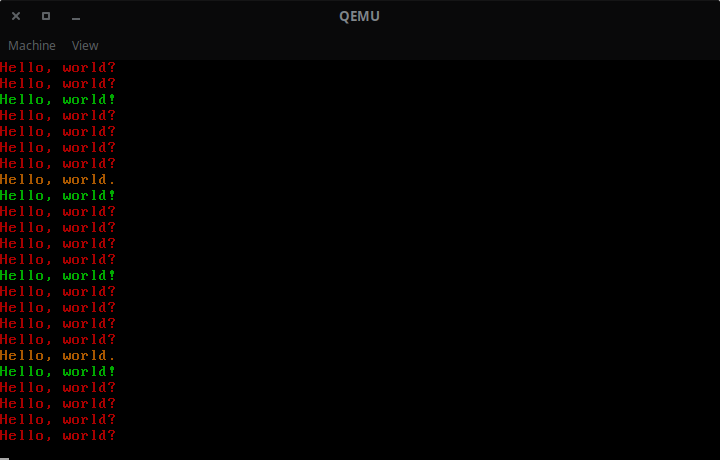
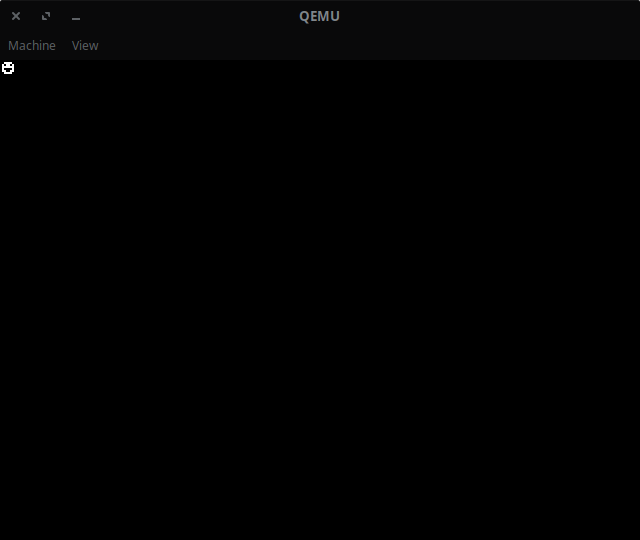
Framebuffer

Changed region(s): [[0.0, 0.0304, 0.1562, 0.9739], [0.4688, 0.0, 0.5312, 0.0609]]

diff --git a/kernel/driver/fb.c b/kernel/driver/fb.c
@@ -3,14 +3,23 @@
 #include <kernel/mm/paging.h>
 #include <kernel/driver/fb.h>
 
+static uint32_t bytes; /* bytes per pixel */
+
 void *fb_addr = NULL;
 uint32_t fb_width = 0;
 uint32_t fb_height = 0;
 uint32_t fb_pitch = 0;
 uint8_t fb_bpp = 0;
+fb_format_t fb_format = {};
+
+const fb_format_t FB_RGB = {
+	.r = {0, 0xff},
+	.g = {1, 0xff},
+	.b = {2, 0xff},
+};
 
 /* map framebuffer into memory */
-extern void fb_map(multiboot_saved_info_t *info) {
+extern void fb_map(multiboot_saved_info_t *info, fb_format_t format) {
 
 	if (!info->f_framebuf) return;
 
@@ -19,13 +28,15 @@ extern void fb_map(multiboot_saved_info_t *info) {
 	uint32_t poff = ((uint32_t)info->fb_addr) % 4096;
 
 	page_frame_use(fr);
-	page_id_t page = page_alloc(1, &fr);
+	page_id_t page = page_breakp++;
+	page_map(page, fr);
 
-	uint32_t frcnt = (poff + (info->fb_height * info->fb_pitch * 3)) / 4096 + 1;
+	bytes = (uint32_t)info->fb_bpp / 8;
+	uint32_t frcnt = (poff + (info->fb_height * info->fb_pitch * bytes)) / 4096 + 1;
 	for (uint32_t i = fr+1; i < fr+frcnt; i++) {
 
 		page_frame_use(i);
-		page_map(page+i, i);
+		page_map(page_breakp++, i);
 	}
 
 	/* set address */
@@ -34,4 +45,17 @@ extern void fb_map(multiboot_saved_info_t *info) {
 	fb_height = info->fb_height;
 	fb_pitch = info->fb_pitch;
 	fb_bpp = info->fb_bpp;
+	fb_format = format;
+}
+
+/* set pixel to color */
+extern void fb_set_pixel(uint32_t x, uint32_t y, fb_color_t color) {
+
+	if (x >= fb_width || y >= fb_height) return;
+
+	uint8_t *addr = (uint8_t *)(fb_addr + y * fb_pitch + x * bytes);
+
+	addr[fb_format.r.index] = color.r;
+	addr[fb_format.g.index] = color.g;
+	addr[fb_format.b.index] = color.b;
 }

diff --git a/kernel/multiboot.c b/kernel/multiboot.c
@@ -59,8 +59,19 @@ extern void multiboot_init(void) {
 				saved.fb_width = tag->width;
 				saved.fb_height = tag->height;
 				saved.fb_bpp = tag->bpp;
+				saved.fb_color = &tag->color;
 
-				fb_map(&saved);
+				/* create format and map framebuffer */
+				fb_format_t format;
+				format.r.index = (uint32_t)(tag->color.red.fpos/8);
+				format.g.index = (uint32_t)(tag->color.green.fpos/8);
+				format.b.index = (uint32_t)(tag->color.blue.fpos/8);
+
+				format.r.mask = 0xffffffff % (1 << (uint32_t)tag->color.red.masksz);
+				format.g.mask = 0xffffffff % (1 << (uint32_t)tag->color.green.masksz);
+				format.b.mask = 0xffffffff % (1 << (uint32_t)tag->color.blue.masksz);
+
+				fb_map(&saved, format);
 			}
 		}
 
@@ -83,13 +94,16 @@ extern void multiboot_map_structure(void) {
 	page_frame_id_t frs[2] = {fr, fr+1};
 	page_frame_use(fr);
 
+	page = page_breakp++;
+	page_map(page, fr);
+
 	/* structure spans multiple pages */
 	if (poff + sizeof(multiboot_info_t) > 4096) {
 
 		page_frame_use(fr+1);
+		page_map(page_breakp++, fr+1);
 		nfrs++;
 	}
-	page = page_alloc(nfrs, frs);
 	info = PAGE_ADDR(page) + poff;
 
 	/* allocate remaining frames */
@@ -100,7 +114,7 @@ extern void multiboot_map_structure(void) {
 
 		frames[i] = fr + nfrs + i;
 		page_frame_use(frames[i]);
-		page_map(page + nfrs + i, frames[i]);
+		page_map(page_breakp++, frames[i]);
 	}
 }
 

diff --git a/kernel/main.c b/kernel/main.c
@@ -6,6 +6,7 @@
 #include <kernel/tty.h>
 #include <kernel/multiboot.h>
 #include <kernel/mm/heap.h>
+#include <kernel/driver/fb.h>
 #include <kernel/driver/device.h>
 #include <kernel/vfs/fs.h>
 #include <kernel/fs/mbr.h>
@@ -26,6 +27,23 @@ static void test_func();
 static void other_func();
 static void alt_func();
 
+extern void _kernel_end();
+
+/* a simple image */
+#define PIXMAP_WIDTH 8
+#define PIXMAP_HEIGHT 8
+
+static uint8_t pixmap[PIXMAP_HEIGHT][PIXMAP_WIDTH] = {
+	{0, 0, 0, 0, 0, 0, 0, 0},
+	{0, 0, 1, 1, 1, 1, 0, 0},
+	{0, 1, 0, 1, 1, 0, 1, 0},
+	{0, 1, 1, 1, 1, 1, 1, 0},
+	{0, 1, 0, 0, 0, 0, 1, 0},
+	{0, 1, 1, 0, 0, 1, 1, 0},
+	{0, 0, 1, 1, 1, 1, 0, 0},
+	{0, 0, 0, 0, 0, 0, 0, 0},
+};
+
 extern void kernel_main() {
 
 	gdt_init();
@@ -38,6 +56,16 @@ extern void kernel_main() {
 	fs_init();
 	tty_init();
 	device_init();
+
+	/* fill screen */
+	fb_color_t color = {0xff, 0xff, 0xff};
+	for (uint32_t y = 0; y < PIXMAP_HEIGHT*2; y++) {
+		for (uint32_t x = 0; x < PIXMAP_WIDTH*2; x++) {
+
+			if (pixmap[y/2][x/2]) fb_set_pixel(x, y, color);
+		}
+	}
+
 	task_init();
 
 	ttydev = tty_get_device(0);

diff --git a/include/kernel/multiboot.h b/include/kernel/multiboot.h
@@ -40,6 +40,13 @@ typedef struct multiboot_cmdline_tag {
 
 #define MULTIBOOT_FB_TYPE_RGB 1
 
+typedef struct multiboot_framebuffer_color_info {
+	struct {
+		uint8_t fpos; /* field position */
+		uint8_t masksz; /* mask size */
+	} red, green, blue;
+} __attribute__((packed)) multiboot_framebuffer_color_info_t;
+
 typedef struct multiboot_framebuffer_tag {
 	multiboot_tag_t tag;
 	uint32_t loaddr; /* low 32 bits of address */
@@ -49,6 +56,8 @@ typedef struct multiboot_framebuffer_tag {
 	uint32_t height; /* height of framebuffer */
 	uint8_t bpp; /* bits per pixel */
 	uint8_t type; /* type of framebuffer */
+	uint8_t reserved[2]; /* reserved data */
+	multiboot_framebuffer_color_info_t color; /* color info */
 } __attribute__((packed)) multiboot_framebuffer_tag_t;
 
 /* main info */
@@ -75,6 +84,7 @@ typedef struct multiboot_saved_info {
 	uint32_t fb_width; /* framebuffer width */
 	uint32_t fb_height; /* framebuffer height */
 	uint32_t fb_bpp; /* bits per pixel */
+	multiboot_framebuffer_color_info_t *fb_color; /* color info */
 } multiboot_saved_info_t;
 
 /* preloaded values */

diff --git a/include/kernel/driver/fb.h b/include/kernel/driver/fb.h
@@ -4,13 +4,29 @@
 #include <kernel/types.h>
 #include <kernel/multiboot.h>
 
+/* color format */
+typedef struct fb_format {
+	struct {
+		uint32_t index; /* field index */
+		uint32_t mask; /* field mask */
+	} r, g, b;
+} fb_format_t;
+
+typedef struct fb_color {
+	uint8_t r, g, b;
+} fb_color_t;
+
 extern void *fb_addr; /* direct pointer to framebuffer */
 extern uint32_t fb_width; /* width of framebuffer */
 extern uint32_t fb_height; /* height of framebuffer */
-extern uint32_t fb_pitch;
-extern uint8_t fb_bpp;
+extern uint32_t fb_pitch; /* number of bytes in a line */
+extern uint8_t fb_bpp; /* bits per pixel */
+extern fb_format_t fb_format; /* framebuffer format */
+
+extern const fb_format_t FB_RGB; /* rgba format */
 
 /* functions */
-extern void fb_map(multiboot_saved_info_t *info); /* map framebuffer into memory */
+extern void fb_map(multiboot_saved_info_t *info, fb_format_t format); /* map framebuffer into memory */
+extern void fb_set_pixel(uint32_t x, uint32_t y, fb_color_t color); /* set pixel to color */
 
 #endif /* ECLAIR_DRIVER_FB_H */

diff --git a/kernel/mm/paging.c b/kernel/mm/paging.c
@@ -17,6 +17,8 @@ static page_id_t page_start = 0;
 static page_id_t page_table_id = 0;
 static page_tab_entry_t *page_table = NULL;
 
+page_id_t page_breakp = 0;
+
 /* get an address to a page table from the page directory */
 #define PAGE_TAB(p) ((page_tab_entry_t *)(page_dir_wrap[(p)] & 0xfffff000))
 
@@ -83,6 +85,7 @@ extern void page_init(void) {
 	page_table = (page_tab_entry_t *)(page_table_id << 12);
 	page_start = page_table_id + 1024;
 
+	page_breakp = page_start;
 	page_dir_wrap = &page_table[page_table_id];
 
 	/* allocate remaining page tables (makes it much simpler to clone a directory but keep the kernel sections in tact) */

diff --git a/include/kernel/mm/paging.h b/include/kernel/mm/paging.h
@@ -22,6 +22,8 @@ typedef uint32_t page_id_t; /* page id */
 #define PAGE_FLAG_PS 0x80
 #define PAGE_FLAG_G 0x100
 
+extern page_id_t page_breakp;
+
 /* functions */
 extern void page_frame_init(void); /* initialize frame allocator */
 extern page_frame_id_t page_frame_alloc(void); /* allocate a frame */

diff --git a/kernel/mm/heap.c b/kernel/mm/heap.c
@@ -10,7 +10,8 @@ static heap_block_t *last = NULL;
 extern void heap_init(void) {
 
 	page_frame_id_t fr = page_frame_alloc();
-	page_id_t pg = page_alloc(1, &fr);
+	page_id_t pg = page_breakp;
+	page_map(page_breakp, fr);
 
 	/* setup head block */
 	head = PAGE_ADDR(pg);
